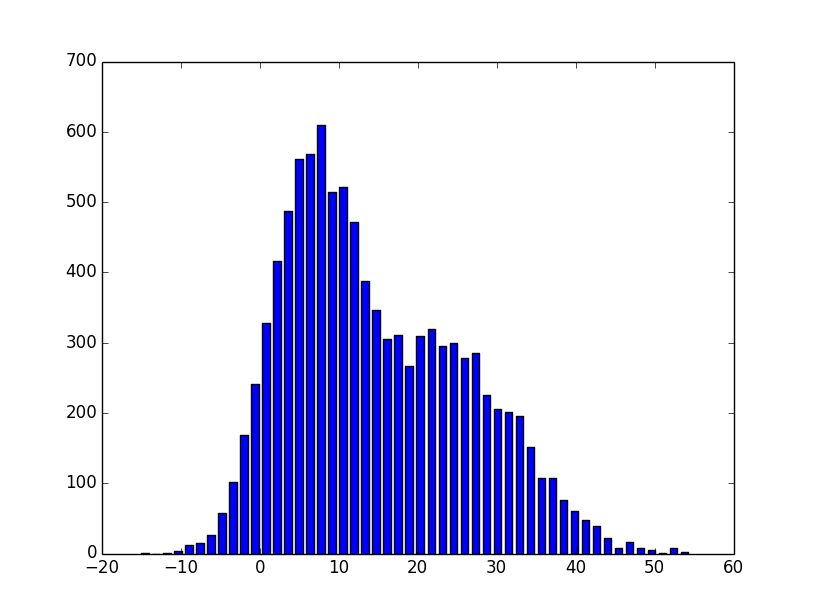
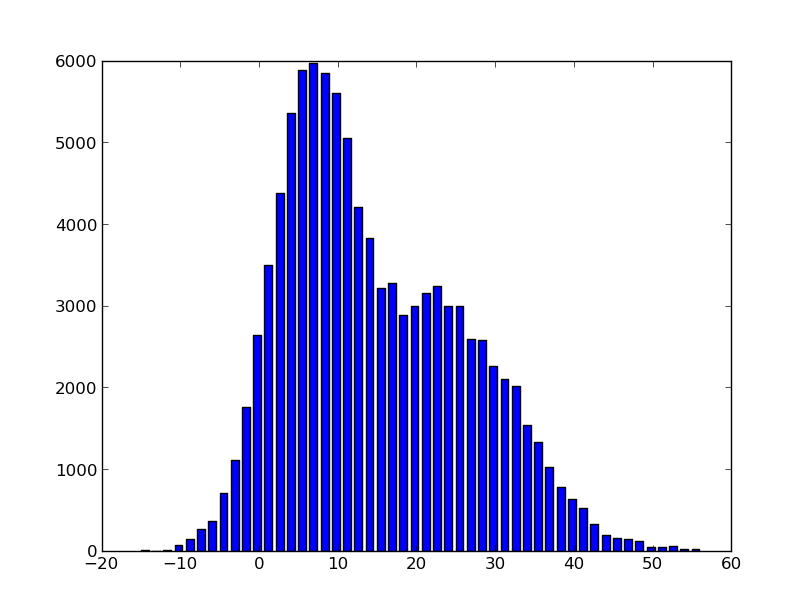
added summarize results function

diff --git a/statium_analysis.py b/statium_analysis.py
@@ -2,6 +2,7 @@ import os
 import math
 import heapq
 import itertools
+from operator import itemgetter
 from util import filelines2list
 from util import list2file
 from util import isAA
@@ -335,7 +336,7 @@ def get_pdb_info(in_pdb_path):
     
     return pdb_info
 
-def generate_random_distribution (in_res, in_probs_dir, num_seqs=10000):
+def generate_random_distribution (in_res, in_probs_dir, num_seqs=100000):
     
     sequence_length = len(filelines2list(in_res))
     sequences = generate_random_seqs(sequence_length, num_seqs)
@@ -361,10 +362,10 @@ def calc_seq_percentile(energies, energy):
     percentile = i*100/len(energies)
     return percentile
 
-def fix_sequence_line(seq, desired_seq_length, in_pdb_orig=None):
+def fix_sequence_line(seq, desired_seq_length, in_pdb_orig=None, warning=False):
     parts = seq.split()
     
-    if(len(seq) != desired_seq_length and len(parts) == 1):
+    if(len(seq) != desired_seq_length and len(parts) == 1 and warning):
         print('NOTE: IRREGULAR SEQUENCE LENGTH WITHOUT A START POSITION FOR ' + seq)
     
     elif(len(parts) > 1):
@@ -643,3 +644,33 @@ def get_sorted_results(results_file):
     sorted_results = sorted(filtered_results)
     
     return sorted_results
+
+#function to combine sequence energy and true classification files so that we can easily read file in format: SEQ       ENERGY  TRUE_CLASS
+def summarize(in_energy_file_path, in_true_class_file_path, in_res_path, in_pdb_orig, out_file = '1ycr_mdm2_summarize.txt'):
+    lines = open(in_energy_file_path).readlines()
+    lines2 = open(in_true_class_file_path).readlines()
+    lines = [line for line in lines if line[0] != '#' and line[0] != '\n']
+    lines2 = [line for line in lines2 if line[0] != '#' and line[0] != '\n' and line[0] != '\r']
+    lines = [line[:-1] for line in lines]
+    table1 = [line.split('\t') for line in lines]
+    lines2 = [line[:-2] for line in lines2]
+    table2 = [line.split('\t') for line in lines2 if not line.isspace()]
+
+    res_lines = filelines2list(in_res_path)
+    residue_positions = [int(line.strip()) - 1 for line in res_lines]
+    table2 = [[fix_sequence_line(pair[0], len(residue_positions), in_pdb_orig),pair[1]] for pair in table2]
+
+    out = []
+    for pair in table1:
+        for i, pair2 in enumerate(table2):
+            if pair2[0] == pair[0]:
+                s = pair[0] + ' ' + pair[1] + ' ' +  pair2[1]
+                out.append(s)
+                break
+
+    out_parts = [(triplet.split(' ')[0], float(triplet.split(' ')[1]), triplet.split(' ')[2]) for triplet in out]
+    out_parts = sorted(out_parts, key=itemgetter(1), reverse=True) 
+    if out_file is not None:
+	    list2file([part[0] + ' ' + str(part[1]) + ' ' + part[2] for part in out_parts], out_file)
+    return out_parts
+
